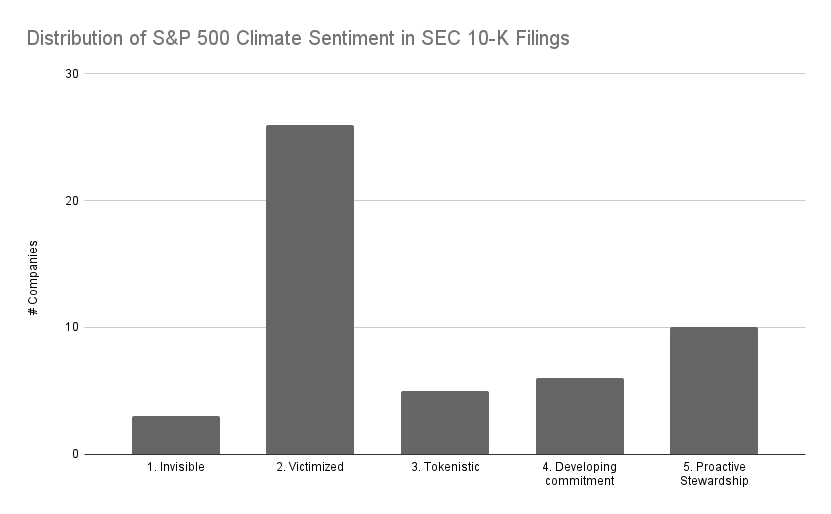
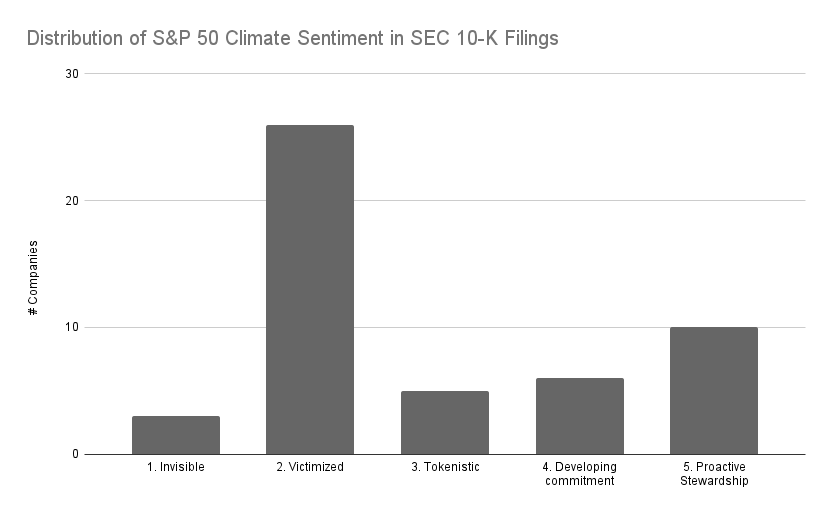
updated chart title and captions

Changed region(s): [[0.2708, 0.0623, 0.6919, 0.0934]]

diff --git a/index.html b/index.html
@@ -248,10 +248,11 @@
             <br>
             <p> The framework is structured as follows: </p>
 
-            <div class="noborder">
-                <img src="./media/Figures/sentiment_type.png" width="90%">
-            </div>
+            <figure class="table-figure">
 
+                <img src="./media/Figures/sentiment_type.png" width="90%">
+                <figcaption> Table 1. Climate Sentiment Framework</figcaption>
+            </figure>
 
             <hr>
 
@@ -266,6 +267,13 @@
             <div class="img">
                 <img src="./media/Chart/sentiment_distro.png" width="50%">
             </div>
+
+            <figure class="table-figure">
+
+                <img src="./media/Chart/sentiment_distro.png" width="50%">
+                <figcaption> Figure 2. Distribution of S&P 50 Climate Sentiment in SEC 10-K Filings</figcaption>
+            </figure>
+
             <br>
             <p>Unfortunately, the majority of companies within this cohort are classified into the "victimized" group,
                 suggesting a prevalent pattern of acknowledging climate risks as a business risk in their SEC 10-K
@@ -374,9 +382,18 @@
                 Verizon.
             </p>
             <br>
-            <p> <b>Example snippets: </b></p>
-            <p> Apple: </p>
-            <img src="./media/APPL.png" width="400">
+            
+            <p><b>Selected Climate Excerpts:</b></p>
+            <div class="gallery">
+                <div class="gallery-item">
+                    <p>Apple:</p>
+                    <img src="./media/APPL.png" alt="Cisco" width="100" class="gallery-image"
+                        data-src="./media/APPL.png" data-caption="Selected Climate Excerpt from Apple's 10-K (Section 1A - Risk).">
+                </div>
+            </div>
+
+
+
 
             <hr>
             <h4> Sentiment Level #3: Tokenistic </h4>
@@ -401,9 +418,14 @@
             </p>
             <br>
 
-            <p> <b>Example snippets: </b></p>
-            <p> Visa: </p>
-            <img src="./media/VISA.png" width="400">
+            <p><b>Selected Climate Excerpts:</b></p>
+            <div class="gallery">
+                <div class="gallery-item">
+                    <p>Visa:</p>
+                    <img src="./media/VISA.png" alt="Cisco" width="100" class="gallery-image"
+                        data-src="./media/VISA.png" data-caption="Selected Climate Excerpt from Visa's 10-K (Section 1 - Business).">
+                </div>
+            </div>
 
             <hr>
             <h4> Sentiment Level #4: Developing commitment </h4>
@@ -428,11 +450,20 @@
             </p>
             <br>
 
-            <p> <b>Example snippets: </b></p>
-            <p> Cisco: </p>
-            <img src="./media/CSCO.png" width="400">
-            <p> Walmat: </p>
-            <img src="./media/WMT.png" width="400">
+            <p><b>Selected Climate Excerpts:</b></p>
+            <div class="gallery">
+                <div class="gallery-item">
+                    <p>Cisco:</p>
+                    <img src="./media/CSCO.png" alt="Cisco" width="100" class="gallery-image"
+                        data-src="./media/CSCO.png" data-caption="Selected Climate Excerpt from Cisco's 10-K (Section 1 - Business).">
+                </div>
+                <div class="gallery-item">
+                    <p>Walmart:</p>
+                    <img src="./media/WMT.png" alt="Google" width="100" class="gallery-image"
+                        data-src="./media/WMT.png" data-caption="Selected Climate Excerpt from WMT's 10-K (Section 1 - Business).">
+                </div>
+            </div>
+
 
             <hr>
             <h4> Sentiment Level #5: Proactive Stewardship </h4>
@@ -465,131 +496,135 @@
 
             <p><b>Selected Climate Excerpts:</b></p>
             <div class="gallery">
-              <div class="gallery-item">
-                <p>Accenture:</p>
-                <img src="./media/ACN.png" alt="Accenture Logo" width="100" class="gallery-image" data-src="./media/ACN.png" data-caption="Selected Climate Excerpt from Accenture's 10-K.">
-              </div>
-              <div class="gallery-item">
-                <p>Google:</p>
-                <img src="./media/GOOGL.png" alt="Google Logo" width="100" class="gallery-image" data-src="./media/GOOGL.png" data-caption="Selected Climate Excerpt from Google's 10-K.">
-              </div>
-              <div class="gallery-item">
-                <p>Nvidia:</p>
-                <img src="./media/NVDA.png" alt="Nvidia Logo" width="100" class="gallery-image" data-src="./media/NVDA.png" data-caption="Selected Climate Excerpt from Nvidia's 10-K.">
-              </div>
-              <div class="gallery-item">
-                <p>T-Mobile US.:</p>
-                <img src="./media/TMUS.png" alt="T-Mobile US. Logo" width="100" class="gallery-image" data-src="./media/TMUS.png" data-caption="Selected Climate Excerpt from T-Mobile US's 10-K.">
-              </div>
+                <div class="gallery-item">
+                    <p>Accenture:</p>
+                    <img src="./media/ACN.png" alt="Accenture" width="100" class="gallery-image"
+                        data-src="./media/ACN.png" data-caption="Selected Climate Excerpt from Accenture's 10-K (Section 1 - Business).">
+                </div>
+                <div class="gallery-item">
+                    <p>Google:</p>
+                    <img src="./media/GOOGL.png" alt="Google" width="100" class="gallery-image"
+                        data-src="./media/GOOGL.png" data-caption="Selected Climate Excerpt from Google's 10-K (Section 1 - Business).">
+                </div>
+                <div class="gallery-item">
+                    <p>Nvidia:</p>
+                    <img src="./media/NVDA.png" alt="Nvidia" width="100" class="gallery-image"
+                        data-src="./media/NVDA.png" data-caption="Selected Climate Excerpt from Nvidia's 10-K (Section 1 - Business).">
+                </div>
+                <div class="gallery-item">
+                    <p>T-Mobile US.:</p>
+                    <img src="./media/TMUS.png" alt="T-Mobile US." width="100" class="gallery-image"
+                        data-src="./media/TMUS.png" data-caption="Selected Climate Excerpt from T-Mobile US's 10-K (Section 1 - Business).">
+                </div>
             </div>
 
-                <hr>
+            <hr>
 
-                <h2> Conclusions </h2>
+            <h2> Conclusions </h2>
 
-                <p> This research has provided a view into of how leading S&P 50 companies address climate-related
-                    issues within their SEC 10-K filings. A climate sentiment framework has been created, categorizing
-                    companies into five distinct levels based on both their acknowledgment of climate change as a
-                    business
-                    risk and their commitment to climate action within these filings.
-                </p>
-                <br>
-                <p>
-                    There are several avenues for further exploration and refinement of findings from this
-                    project. One potential direction is the application of advanced text analysis and machine learning
-                    techniques to scale the assessment to a broader set of companies beyond the S&P 50. By leveraging
-                    these
-                    tools, we may enhance the efficiency and accuracy of our analysis, enabling us to gain insights into
-                    climate sentiment
-                    across a more extensive range of corporations. Furthermore, exploring beyond the two sections
-                    highlighted in our study—Sections 1 (Business) and 1A
-                    (Risk)—to include other sections of the SEC 10-K filings could provide a more comprehensive
-                    understanding of how companies integrate climate-related considerations into their overall
-                    disclosure
-                    practices.
-                </p>
-                <br>
-                <p>
-                    In addition, a comparative analysis of information consistency between companies' sustainability
-                    reports
-                    and their financial disclosures could also offer valuable insights into the alignment—or lack
-                    thereof—between stated commitments and actual practices. By examining discrepancies and
-                    inconsistencies
-                    between these
-                    documents, we can gain a deeper understanding of companies' transparency and accountability
-                    regarding
-                    their climate-related efforts. This could inform efforts to enhance reporting standards and promote
-                    greater transparency in corporate sustainability disclosures.
-                </p>
-                <br>
-                <p>
-                    While policy and regulatory interventions play a crucial role in setting the stage for
-                    climate action, as demonstrated by the acknowledgment of climate as a business risk in the majority
-                    of
-                    this cohort of companies' SEC 10-K filings, the profit-driven nature of the current market dynamic
-                    means
-                    that
-                    investor pressure and market incentives can also be powerful drivers of change. By incorporating
-                    climate
-                    considerations into investment decision-making processes and applying pressure on companies to
-                    prioritize climate action alongside profit, investors can catalyze meaningful change.
-                </p>
-                <br>
-                <p>
-                    In conclusion, this research contributes to the growing body of knowledge on corporate climate
-                    sentiment
-                    and underscores the importance of integrating climate considerations into corporate strategies and
-                    financial disclosures. By developing a nuanced understanding of how leading corporations address
-                    climate-related issues in their SEC 10K filings, we can identify opportunities for improvement and
-                    advocate for greater
-                    transparency, accountability, and action on climate change. As we continue to refine our
-                    methodologies
-                    and expand our analysis, we aim to empower stakeholders with the insights they need to drive
-                    meaningful
-                    progress towards a more sustainable and resilient future.
-                </p>
+            <p> This research has provided a view into of how leading S&P 50 companies address climate-related
+                issues within their SEC 10-K filings. A climate sentiment framework has been created, categorizing
+                companies into five distinct levels based on both their acknowledgment of climate change as a
+                business
+                risk and their commitment to climate action within these filings.
+            </p>
+            <br>
+            <p>
+                There are several avenues for further exploration and refinement of findings from this
+                project. One potential direction is the application of advanced text analysis and machine learning
+                techniques to scale the assessment to a broader set of companies beyond the S&P 50. By leveraging
+                these
+                tools, we may enhance the efficiency and accuracy of our analysis, enabling us to gain insights into
+                climate sentiment
+                across a more extensive range of corporations. Furthermore, exploring beyond the two sections
+                highlighted in our study—Sections 1 (Business) and 1A
+                (Risk)—to include other sections of the SEC 10-K filings could provide a more comprehensive
+                understanding of how companies integrate climate-related considerations into their overall
+                disclosure
+                practices.
+            </p>
+            <br>
+            <p>
+                In addition, a comparative analysis of information consistency between companies' sustainability
+                reports
+                and their financial disclosures could also offer valuable insights into the alignment—or lack
+                thereof—between stated commitments and actual practices. By examining discrepancies and
+                inconsistencies
+                between these
+                documents, we can gain a deeper understanding of companies' transparency and accountability
+                regarding
+                their climate-related efforts. This could inform efforts to enhance reporting standards and promote
+                greater transparency in corporate sustainability disclosures.
+            </p>
+            <br>
+            <p>
+                While policy and regulatory interventions play a crucial role in setting the stage for
+                climate action, as demonstrated by the acknowledgment of climate as a business risk in the majority
+                of
+                this cohort of companies' SEC 10-K filings, the profit-driven nature of the current market dynamic
+                means
+                that
+                investor pressure and market incentives can also be powerful drivers of change. By incorporating
+                climate
+                considerations into investment decision-making processes and applying pressure on companies to
+                prioritize climate action alongside profit, investors can catalyze meaningful change.
+            </p>
+            <br>
+            <p>
+                In conclusion, this research contributes to the growing body of knowledge on corporate climate
+                sentiment
+                and underscores the importance of integrating climate considerations into corporate strategies and
+                financial disclosures. By developing a nuanced understanding of how leading corporations address
+                climate-related issues in their SEC 10K filings, we can identify opportunities for improvement and
+                advocate for greater
+                transparency, accountability, and action on climate change. As we continue to refine our
+                methodologies
+                and expand our analysis, we aim to empower stakeholders with the insights they need to drive
+                meaningful
+                progress towards a more sustainable and resilient future.
+            </p>
 
-                <hr>
+            <hr>
 
 
-                <h3> Appendix </h3>
+            <h3> Appendix </h3>
 
-                <h5> <u> Limitations of this study </u> </h5>
-                <ul class="limitations-list">
-                    <li>The study acknowledges that the latest SEC 10-K filings utilized in the dataset preparation span
-                        across different fiscal years, ranging from 2022 to 2023. This variation may not fully capture
-                        the
-                        most current sentiment of companies on climate action, potentially overlooking those that have
-                        made
-                        significant improvements in their stance during the intervening period.</li>
+            <h5> <u> Limitations of this study </u> </h5>
+            <ul class="limitations-list">
+                <li>The study acknowledges that the latest SEC 10-K filings utilized in the dataset preparation span
+                    across different fiscal years, ranging from 2022 to 2023. This variation may not fully capture
+                    the
+                    most current sentiment of companies on climate action, potentially overlooking those that have
+                    made
+                    significant improvements in their stance during the intervening period.</li>
 
-                    <li>The analysis methodology employed a combination of manual review and NLP techniques, which
-                        introduces the possibility of bias, subjective interpretation, or human error. While efforts
-                        were
-                        made to mitigate these issues, they remain inherent limitations of the study.</li>
+                <li>The analysis methodology employed a combination of manual review and NLP techniques, which
+                    introduces the possibility of bias, subjective interpretation, or human error. While efforts
+                    were
+                    made to mitigate these issues, they remain inherent limitations of the study.</li>
 
-                    <li>It is important to note that some companies may have robust climate or ESG programs that are not
-                        adequately represented in their 10-K filings. As a result, the study is confined to analyzing
-                        how
-                        companies articulate their climate-related efforts in these filings, which may differ from their
-                        broader sustainability reports or other communication materials.</li>
+                <li>It is important to note that some companies may have robust climate or ESG programs that are not
+                    adequately represented in their 10-K filings. As a result, the study is confined to analyzing
+                    how
+                    companies articulate their climate-related efforts in these filings, which may differ from their
+                    broader sustainability reports or other communication materials.</li>
 
-                    <li>Due to resource constraints, the study focused solely on Sections 1 (Business) and 1A (Risk) of
-                        the
-                        SEC 10-K filings. Consequently, valuable insights from other sections of the filings, such as
-                        Management's Discussion and Analysis or Legal Proceedings, were not included in the analysis,
-                        potentially limiting the comprehensiveness of the findings.</li>
+                <li>Due to resource constraints, the study focused solely on Sections 1 (Business) and 1A (Risk) of
+                    the
+                    SEC 10-K filings. Consequently, valuable insights from other sections of the filings, such as
+                    Management's Discussion and Analysis or Legal Proceedings, were not included in the analysis,
+                    potentially limiting the comprehensiveness of the findings.</li>
 
-                    <li>The dataset used for analysis was derived from publicly available sources, which may not
-                        encompass
-                        all relevant companies or capture nuanced aspects of their climate-related disclosures.
-                        Additionally, the study's reliance on SEC filings may overlook alternative channels through
-                        which
-                        companies communicate their climate strategies, such as corporate websites or sustainability
-                        reports.</li>
-                </ul>
+                <li>The dataset used for analysis was derived from publicly available sources, which may not
+                    encompass
+                    all relevant companies or capture nuanced aspects of their climate-related disclosures.
+                    Additionally, the study's reliance on SEC filings may overlook alternative channels through
+                    which
+                    companies communicate their climate strategies, such as corporate websites or sustainability
+                    reports.</li>
+            </ul>
 
-                <hr>
+            <hr>
 
 
 
@@ -599,7 +634,7 @@
     <div id="modal" class="modal">
         <span class="close">&times;</span>
         <img src="" alt="" id="modal-image">
-        <div id="caption" class="caption"></div> 
+        <div id="caption" class="caption"></div>
     </div>
 
 
